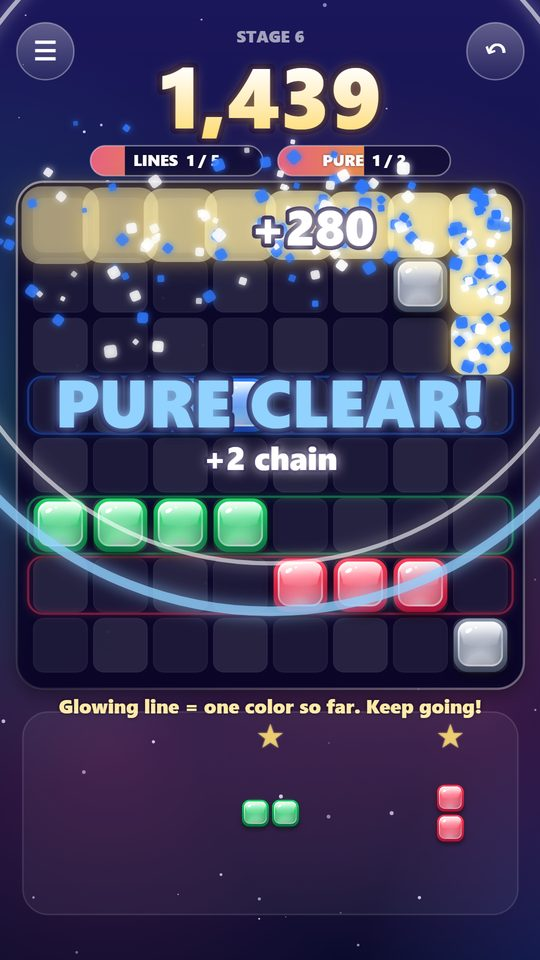
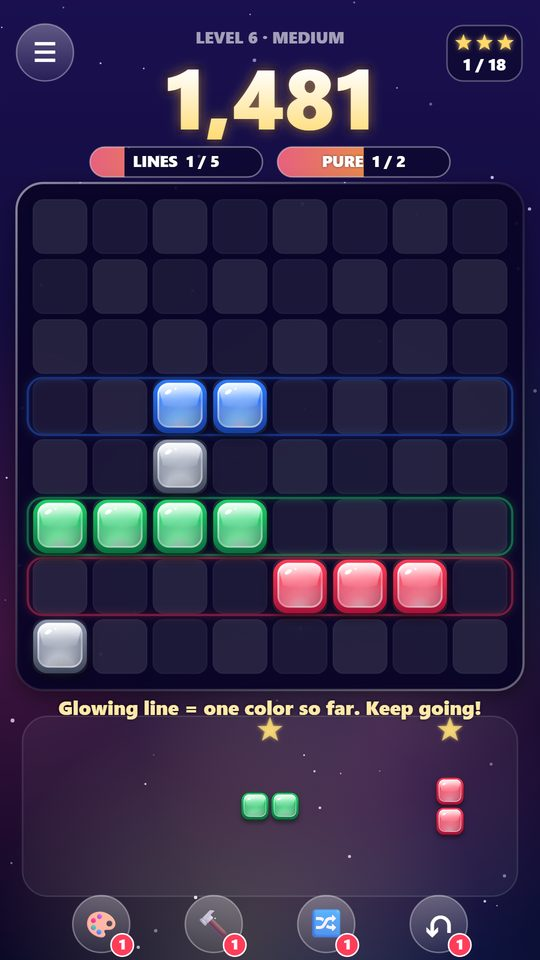
Fix booster confirm button drawing, refresh screenshots

diff --git a/index.html b/index.html
@@ -798,13 +798,14 @@ function render(){
   // rings
   fx.rings.forEach(r=>{const u=r.life/r.dur,e=1-Math.pow(1-u,3);ctx.save();ctx.globalAlpha=1-u;ctx.strokeStyle=r.col;ctx.lineWidth=r.w*(1-u)+1;ctx.shadowColor=r.col;ctx.shadowBlur=30;
     ctx.beginPath();ctx.arc(r.x,r.y,10+(r.max-10)*e,0,6.3);ctx.stroke();ctx.restore()});
-  tipBar(pv);targetOverlay();boosterBar();
+  tipBar(pv);boosterBar();
   // tray
   ctx.fillStyle="rgba(255,255,255,.05)";rr(30,TRAY_Y-120,660,240,34);ctx.fill();
   ctx.strokeStyle="rgba(255,255,255,.12)";ctx.lineWidth=2;rr(30,TRAY_Y-120,660,240,34);ctx.stroke();
   G.pieces.forEach(p=>{if(p.used||p.t<0)return;if(G.drag&&G.drag.p===p)return;drawPiece(p);
     if(G.cues&&G.cues.some(q=>q.col===p.color&&q.k>=3)){const pu=.6+.4*Math.sin(bgT*6),[sx,sy]=slotCenter(p.slot);ctx.save();ctx.fillStyle="#ffe27a";ctx.shadowColor="#ffd96a";ctx.shadowBlur=18*pu;ctx.font="900 40px 'Segoe UI',sans-serif";ctx.textAlign="center";ctx.textBaseline="middle";ctx.globalAlpha=.6+.4*pu;ctx.fillText("★",sx,sy-100);ctx.restore()}});
   if(G.drag)drawPiece(G.drag.p,true);
+  targetOverlay();
   // particles
   fx.parts.forEach(p=>{const a=1-p.life/p.max;ctx.save();ctx.globalAlpha=a;ctx.translate(p.x,p.y);ctx.rotate(p.rot);
     ctx.shadowColor=p.col;ctx.shadowBlur=14;ctx.fillStyle=p.col;if(p.star){ctx.beginPath();for(let k=0;k<8;k++){const a=k*.7854,q=(k%2?.25:1)*p.size;ctx.lineTo(Math.cos(a)*q,Math.sin(a)*q)}ctx.closePath();ctx.fill()}else{rr(-p.size/2,-p.size/2,p.size,p.size,p.size*.25);ctx.fill()}ctx.restore()});
@@ -851,15 +852,18 @@ if("serviceWorker" in navigator&&location.protocol.startsWith("http")){addEventL
 (function(){const q=new URLSearchParams(location.search).get("shot");if(!q)return;opt.sound=false;opt.music=false;
   const fill=(r,c0,c1,col)=>{for(let c=c0;c<=c1;c++)G.board[r][c]=col};
   const setP=(i,cells,w,h,col)=>{G.pieces[i].s={cells,w,h,n:cells.length};G.pieces[i].color=col;G.pieces[i].t=2;G.pieces[i].sc=TRAY_CELL/CELL;const[x,y]=slotCenter(i);G.pieces[i].x=x;G.pieces[i].y=y};
-  if(q==="menu"){return}
-  if(q==="intro"){startGame("stage",2);return}
-  if(q==="stage"){startGame("stage",3);hide("intro");fill(1,0,5,1);fill(4,0,2,0);fill(4,5,5,0);fill(5,1,3,1);fill(6,0,1,0);fill(6,6,7,1);G.board[3][7]=1;G.board[2][7]=1;
+  if(q==="menu"){PROG={1:[3,2,1],2:[2,1,0],3:[2,1,0],4:[1,0,0]};BO={paint:3,hammer:2,shuffle:2,rewind:4};refreshMenu();return}
+  if(q==="map"){PROG={1:[3,3,2],2:[3,2,1],3:[2,2,1],4:[2,1,0],5:[1,0,0]};openMap();return}
+  if(q==="boost"){startGame("stage",6,1);hide("intro");BO={paint:3,hammer:2,shuffle:2,rewind:4};fill(2,1,3,0);fill(3,1,3,0);fill(2,4,4,1);fill(3,4,4,2);fill(5,0,2,1);fill(5,3,4,2);G.board[6][6]=5;G.board[4][2]=0;
+    G.tgt={k:"paint",step:1,sel:[[2,1],[2,2],[2,3],[3,1],[3,2]]};G.score=1180;G.shown=1180;G.lines=3;return}
+  if(q==="intro"){startGame("stage",2,1);return}
+  if(q==="stage"){startGame("stage",3,1);hide("intro");fill(1,0,5,1);fill(4,0,2,0);fill(4,5,5,0);fill(5,1,3,1);fill(6,0,1,0);fill(6,6,7,1);G.board[3][7]=1;G.board[2][7]=1;
     setP(0,[[0,0],[0,1]],2,1,1);setP(1,[[0,0],[1,0],[1,1]],2,2,0);setP(2,[[0,0],[1,0],[2,0]],1,3,1);G.score=840;G.shown=840;G.lines=2;return}
-  if(q==="stones"){startGame("stage",8);hide("intro");G.board[0][3]=1;G.board[1][3]=1;G.board[2][3]=1;G.board[3][3]=1;G.board[4][3]=1;G.board[5][3]=1;fill(7,0,4,2);fill(6,5,7,0);fill(6,0,1,0);
+  if(q==="stones"){startGame("stage",7,1);hide("intro");G.board[0][3]=1;G.board[1][3]=1;G.board[2][3]=1;G.board[3][3]=1;G.board[4][3]=1;G.board[5][3]=1;fill(7,0,4,2);fill(6,5,7,0);fill(6,0,1,0);
     setP(0,[[0,0],[1,0]],1,2,1);setP(1,[[0,0],[0,1],[0,2]],3,1,2);setP(2,[[0,0],[1,0],[1,1],[1,2]],3,2,0);G.score=2310;G.shown=2310;G.lines=3;G.pure=1;return}
   if(q==="weekly"){startGame("daily");hide("intro");fill(2,0,3,3);fill(3,0,3,3);fill(5,2,6,4);fill(6,0,4,1);G.board[7][7]=0;
     setP(0,[[0,0],[1,0],[1,1]],2,2,3);setP(1,[[0,0],[0,1],[0,2],[0,3]],4,1,1);setP(2,[[0,0],[1,0]],1,2,4);G.score=1520;G.shown=1520;G.lines=4;G.pure=1;return}
-  if(q==="pure"){startGame("stage",6);hide("intro");fill(0,0,6,1);fill(1,7,7,1);fill(2,7,7,1);fill(3,2,3,1);fill(5,0,3,2);fill(6,4,6,0);
+  if(q==="pure"){startGame("stage",6,1);hide("intro");fill(0,0,6,1);fill(1,7,7,1);fill(2,7,7,1);fill(3,2,3,1);fill(5,0,3,2);fill(6,4,6,0);
     setP(0,[[0,0]],1,1,1);setP(1,[[0,0],[0,1]],2,1,2);setP(2,[[0,0],[1,0]],1,2,0);G.score=1200;G.shown=1200;
     setTimeout(()=>place(G.pieces[0],0,7),250);return}
 })();
